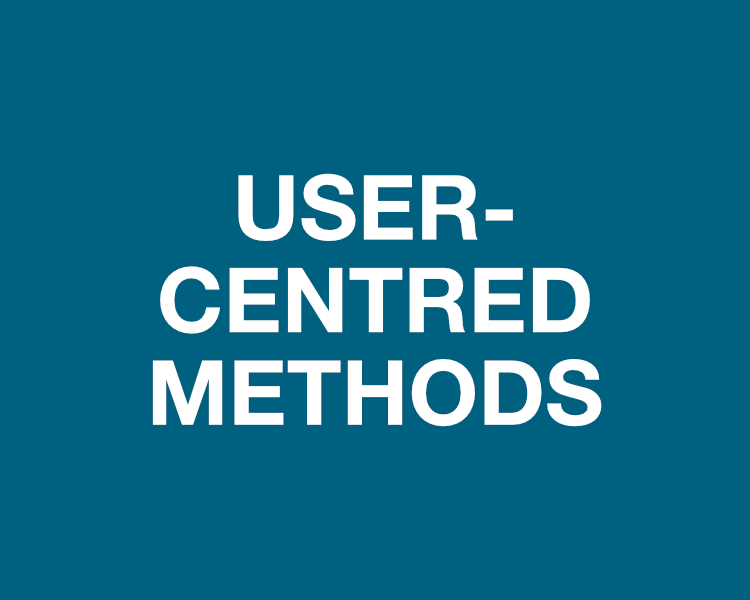
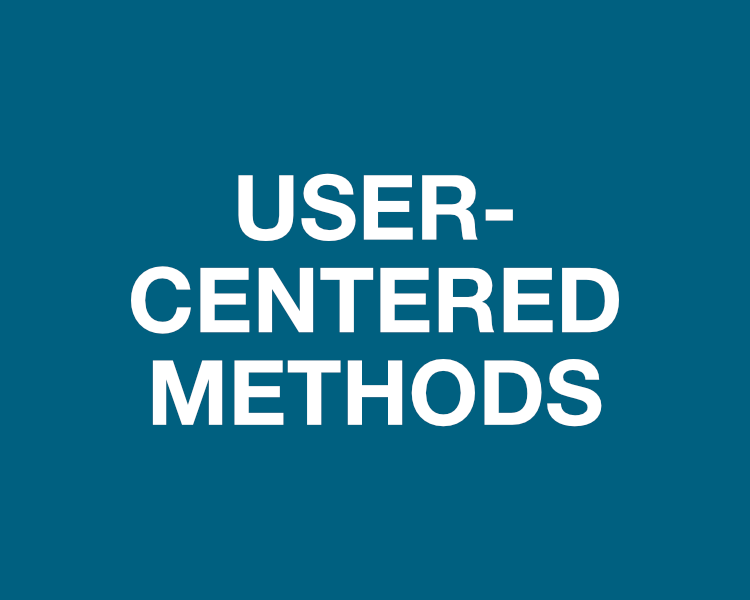
päivitetty hoverit

Changed region(s): [[0.1533, 0.42, 0.828, 0.57]]

diff --git a/index.html b/index.html
@@ -130,7 +130,7 @@
                             </br>
                             </div>
                         </div>
-                        <img src="img/portfolio/ucm.png" class="img-responsive" alt="User-Centred Methods" title="User-Centred Methods">
+                        <img src="img/portfolio/ucm.png" class="img-responsive" alt="User-Centered Methods" title="User-Centered Methods">
                     </a>
                 </div>
                 <div class="col-md-3 portfolio-item">
@@ -188,8 +188,8 @@
             </div>
             <div class="row">
                 <div class="col-lg-6">
-                    <p>My name is Lauri Loikkanen and I'm a 25-year-old UX designer from Espoo, Finland. I'm also a master's student at Aalto University, where I study Information Networks with a major in User-Centred Design.</p>
-                    <p>My studies have basically consisted of three elements - information technology, industrial management and social studies. During my bachelor's degree I took courses ranging from Java and XML programming to work psychology, and from concept design to digital media. However, my master's phase has mostly revolved around User-Centred Design, and has included several intensive design-related courses with a variety of interesting projects, some of which were targeted for actual Finnish companies.</p>
+                    <p>My name is Lauri Loikkanen and I'm a 25-year-old UX designer from Espoo, Finland. I'm also a master's student at Aalto University, where I study Information Networks with a major in User-Centered Design.</p>
+                    <p>My studies have basically consisted of three elements - information technology, industrial management and social studies. During my bachelor's degree I took courses ranging from Java and XML programming to work psychology, and from concept design to digital media. However, my master's phase has mostly revolved around User-Centered Design, and has included several intensive design-related courses with a variety of interesting projects, some of which were targeted for actual Finnish companies.</p>
                     <p>Professionally, I have worked as a UX/UI designer for a few years now, performing various design-related tasks, such as conducting user research and designing interactive UI prototypes. My main professional motivation is to design digital services with the best possible user experience, and I'm always eager to expand my knowledge of the subject. Although my work experience so far has mostly focused on UX design, I'm keen to learn more about visual design and service design as well.</p>
                     <p>In my spare time I enjoy good food and music - I also play the guitar and sometimes perform with my band. My other hobbies include going to the gym, jogging... or sometimes even climbing mountains, such as the Balinese volcano in the background picture!</p>
                 </div>
@@ -253,7 +253,7 @@
                             <h2>Design Project</h2>
                             <hr class="star-primary">
                             <img src="img/portfolio/xperience.png" class="img-responsive img-centered" alt="">
-                            <p>This course was an intensive 6 month project, that basically covered all the aspects of user-centred design. The general theme provided for the project was Mobility as a Service, and each group were to select a target user group of their choice. Our group decided to design a service for tourists, so the work began by interviewing tourists in Helsinki and finding out what kind of mobility-related needs would they have.
+                            <p>This course was an intensive 6 month project, that basically covered all the aspects of user-centered design. The general theme provided for the project was Mobility as a Service, and each group were to select a target user group of their choice. Our group decided to design a service for tourists, so the work began by interviewing tourists in Helsinki and finding out what kind of mobility-related needs would they have.
                             </p>
                             <p>Eventually after rounds of iteration and prototyping, we found that the tourists were missing a simple navigation app, that instead of showing the shortest route between two places, would provide the user with the most interesting route, based on the user preferences. The final phases of the project were essentially about refining and testing the digital prototype, for which we used a software called JustInMind. In addition to the design-related activities, an important part of the course were the weekly pitches, where each member got to present the group's progress.</p>
                             <button type="button" class="btn btn-default" data-dismiss="modal"><i class="fa fa-times"></i> Close</button>
@@ -331,7 +331,7 @@
                 <div class="row">
                     <div class="col-lg-8 col-lg-offset-2">
                         <div class="modal-body">
-                            <h2>User-Centred Methods</h2>
+                            <h2>User-Centered Methods</h2>
                             <hr class="star-primary">
                             <img src="img/portfolio/customerjourney.png" class="img-responsive img-centered" alt="">
                             <p>This course was mainly about conducting user research. The focal point was a group assignment where the customer journey of a selected brick-and-mortar store was analyzed. The data collection consisted of on-site observation, customer interviews and a web survey. After the data was analyzed, a suggested solution that would enhance the store's customer experience was presented to the store managers. 
@@ -359,7 +359,7 @@
                         <div class="modal-body">
                             <h2>Social Media</h2>
                             <hr class="star-primary">
-                            <img src="img/portfolio/easyhousing1.png" class="img-responsive img-centered" alt="">
+                            <img src="img/portfolio/easyhousing3.png" class="img-responsive img-centered" alt="">
                             <p>The focus of this course was not particularly in UI design, but instead creating a concept for a social
                             media service and analyzing the societal factors that affect it - such as legislation, political factors,
                             cultural norms etc.</p>
@@ -369,12 +369,6 @@
                             <p>I thought the course was extremely educating as it showed that there's much more to designing a social media service than good UI or technical details. Basically it taught me how to think of a problem first from all the possible angles before jumping into the solution straight away. 
                             </p>
                             <p>Even though UI design was not a main goal in this course, I designed a few simple UI mockups to visualize the content of the service.</p>
-                            <div class="col-sm-6">
-                                <img src="img/portfolio/easyhousing2.png" class="img-responsive img-centered" alt="">
-                            </div>
-                            <div class="col-sm-6">
-                                <img src="img/portfolio/easyhousing3.png" class="img-responsive img-centered" alt="">
-                            </div>
                             <button type="button" class="btn btn-default" data-dismiss="modal"><i class="fa fa-times"></i> Close</button>
                         </div>
                     </div>
@@ -410,7 +404,6 @@
                             group of 4 people - starting with paper prototypes and then using Axure RP to generate
                             interactive hi-fi UI protos. We did separate UI prototypes for mobile, tablet and desktop versions.
                             </p>
-                            <img src="img/portfolio/PaperboyMobile.png" class="img-responsive img-centered" alt="" width="160px">
                             <p><a href="https://www.youtube.com/watch?v=GEjMpGfxaZY">Click here to watch a screen-capture video of the Paperboy App.</a>
                             </p>
                             

diff --git a/css/freelancer.css b/css/freelancer.css
@@ -421,6 +421,12 @@ footer .footer-below {
     /*border:1px solid #006080;*/
 }
 
+.img-responsive:hover{
+    transition: .5s ease;
+    opacity: 0.8;
+}
+
+
 .portfolio-modal .modal-content img {
     margin-bottom: 30px;
 }

diff --git a/css/bootstrap.css b/css/bootstrap.css
@@ -1128,6 +1128,8 @@ img {
   max-width: 100%;
   height: auto;
 }
+
+
 .img-rounded {
   border-radius: 6px;
 }
